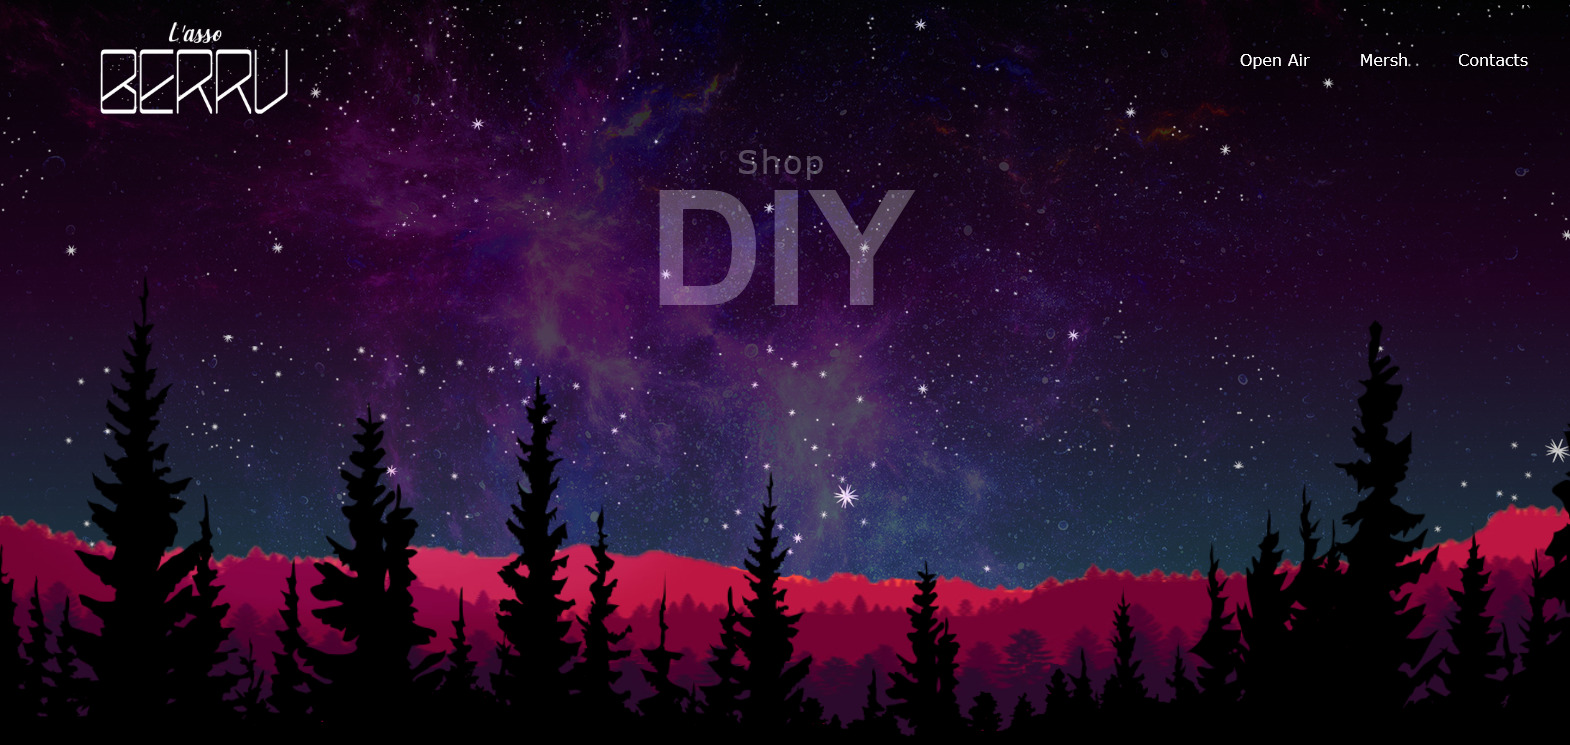
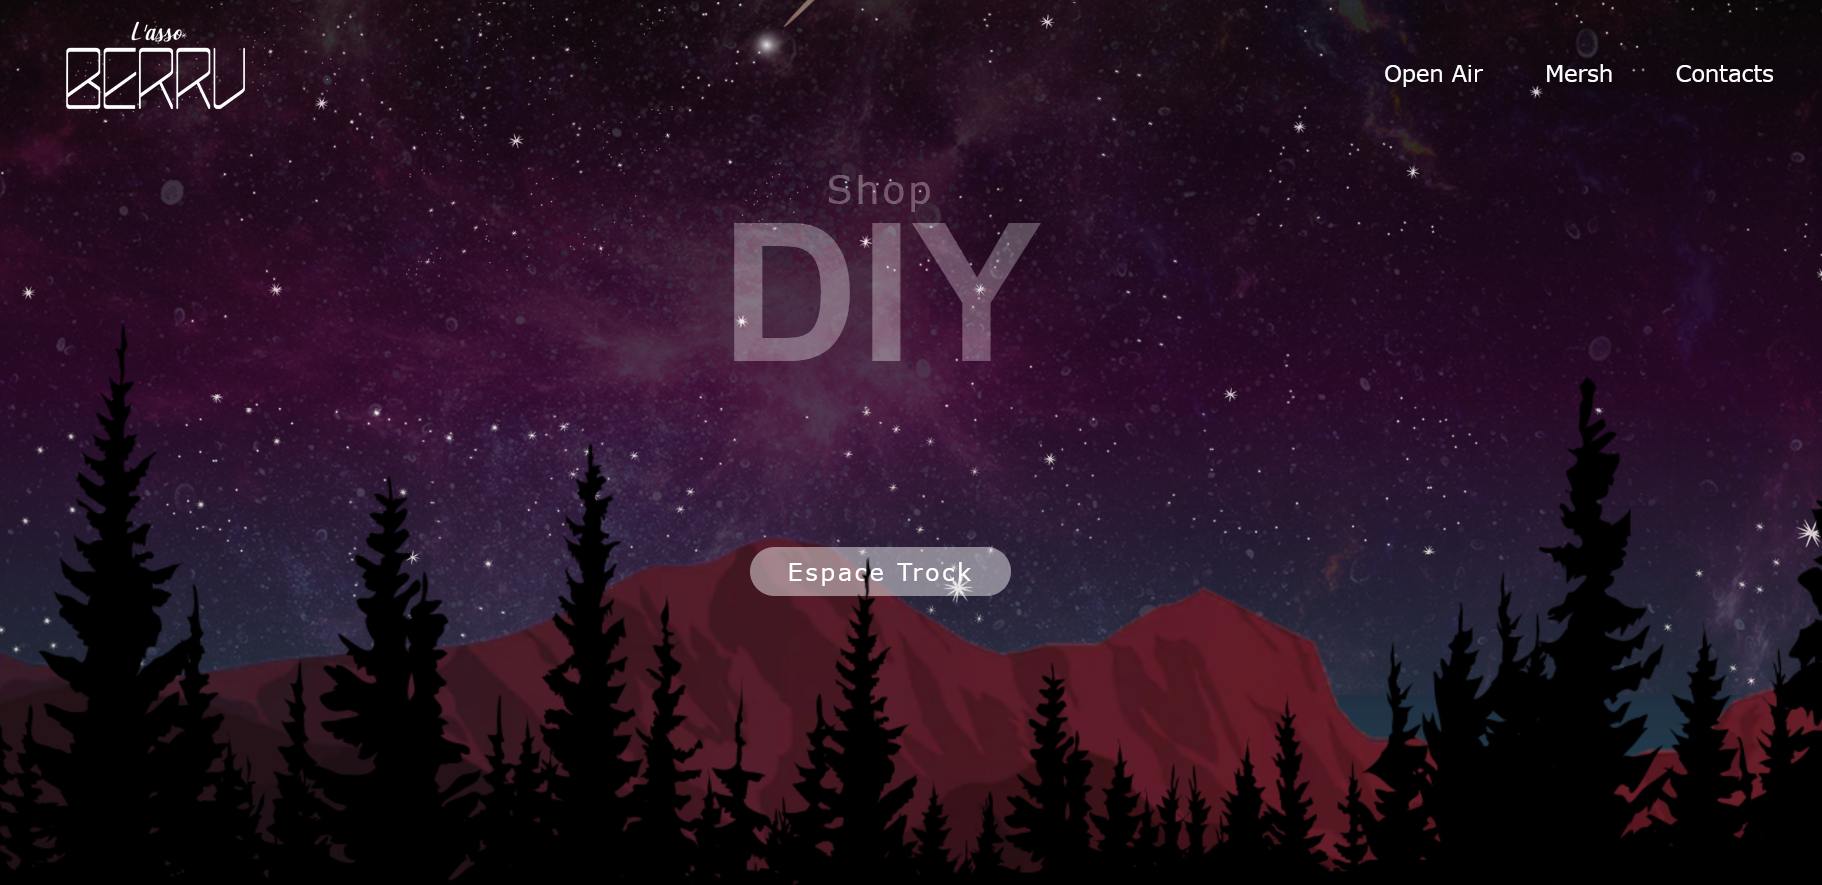
majV7

diff --git a/index-p.html b/index-p.html
@@ -12,12 +12,13 @@
         <nav class="dropdownmenu">
             <ul>
 
-                <li><a href="#">Contacts</a></li>
-                <ul id="submenu">
-                    <li><a href="#">Programmation</a></li>
-                    <li><a href="#">Info Admin</a></li>
-                    <li><a href="#">espace Partner</a></li>
-                </ul>
+                <li><a href="#">Contacts</a>
+                    <ul id="submenu">
+                        <li><a href="#">Prog</a></li>
+                        <li><a href="#">Admin</a></li>
+                        <li><a href="#">offre de stage</a></li>
+                    </ul>
+                </li>
                 <li><a href="#">Mersh</a>
                     <ul id="submenu">
                         <li><a href="#">Boissons</a></li>
@@ -161,7 +162,7 @@
         }
         
         #submenu a:hover {
-            background: var(--primary);
+            background-color: #ffffff96;
         }
         
         #submenu a {
@@ -171,7 +172,7 @@
         
         #btn {
             text-decoration: none;
-            display: inline-block;
+            display: inline;
             padding: 8px 30px;
             background: rgba(255, 255, 255, 0.46);
             color: var(--txt);
@@ -325,7 +326,7 @@
             position: relative;
             padding: 100px;
             background: var(--primary);
-            z-index: 6;
+            z-index: 15;
         }
         
         .sec h2 {
@@ -346,7 +347,7 @@
         }
         
         footer a {
-            text-decoration: none;
+            text-decoration: #f88989;
             color: #fff;
         }
         
@@ -358,7 +359,7 @@
         
         #stars {
             rotate: 55°;
-            opacity: 80%;
+            opacity: 100%;
         }
         
         #forest {
@@ -390,17 +391,32 @@
         
         h4 {
             color: var(--txt);
+            font-size: 18px;
+        }
+        
+        #scale,
+        a {
+            color: #f3a90a;
             text-decoration: none;
         }
         
-        #scale {
-            color: var(--txt);
-            text-decoration: none;
+        #secret {
+            background-color: transparent;
+            color: #000000;
+            font-size: 10px;
+            position: relative;
+            margin-right: 20px;
+            z-index: 100;
         }
         
-        #scale:hover {}
+        #secret:hover {
+            background-color: #ffffff96;
+            border-radius: 40px;
+        }
         
-        a:hover {}
+        a:hover {
+            opacity: 50%;
+        }
     </STYLE>
     </header>
 
@@ -415,12 +431,12 @@
     </div>-->
 
     <Section>
-        <h2 id="text"><span>Shop</span><br>DIY</h2>
+        <h2 id="text"><span></span><br></h2>
 
         <img src="src-img\Stars.png" id="sat">
-        <img src="src-img\Stars.png" id="stars">
+        <img src="src-img\LUNE.png" id="stars">
         <img src="src-img\cosmos.png" id="cosmos">
-        <a href="#" id="btn">Espace Trock</a>
+        <a href="#" id="btn" title="et offre de stage">Devenir Bénevole</a>
         <img src="src-img\mountain3.png" id="mont" position:absolute>
         <img src="src-img\foret.png" id="forest" position:absolute>
     </Section>
@@ -433,28 +449,35 @@
         <p>Ce site vous permet de rester informé des prochaines dates de DJ Set au Parc. Mais aussi de découvrir l'univers de l'asso.</p>
 
         <br><br>
-        <h4>DIY</h4>
+        <h4>DIY 🎮</h4>
         <p> Au dela d'organiser des concert, dj'set dans des Parcs nantais, on s'éclate à créer toute sorte de chose, comme du mapping vidéo ou "projection", on programme des petits instruments en C++ au protocole midi pour jouer sur Ableton, Arena ou Arturia.
-            <p>Nos instruments sont mis en vente ici, il s'agit de clavier maitre USB-Midi et boite à son électro 100% Analogique, ou suivant l'inspiration, un mélange des deux.
+            <p><a href="#">Nos instruments sont mis en vente ici</a> , il s'agit de clavier maitre USB-Midi et boite à son électro 100% Analogique, ou suivant l'inspiration, un mélange des deux.
 
                 <br><br>
-                <h4>Recyclage</h4>
+                <h4>Recyclage ♻</h4>
                 <p>Nous mettons également à disposition tout nos
-                    <strong>invendu</strong> de la saison, à savoir toute les boisson soft et cidre, qu'il nous reste de nos évenements. Nous les vendons à -20%, cela permet à l'asso d'éviter les pertes inutiles.
-                    <br>Dans ce même context, nous recyclons ...nanan si un meuble vous a plus lors d'un event, nous pouvons soit vous le donner si nous n'en n'avons plus l'utilité ou vous le prêter pour une occasion. "voir espace trock"
-                    <br><br>
-                    <h4>Moyen de paiment</h4>
+                    <strong>invendu</strong> de la saison, à savoir toute les boisson soft et cidre, qu'il nous reste de nos évenements. Nous les vendons à -33 % de leur prix coutant, cela évite les pertes et le gaspillage.
+                    <br>Dans ce même context, nous recyclons ...nanan si un meuble vous a plus lors d'un event, nous pouvons soit vous le donner si nous n'en n'avons plus l'utilité ou vous le prêter pour une occasion. <a href="" #>Dans espace trock.</a>                    <br><br>
+                    <h4>Moyen de paiment 🛒</h4>
                     <p>Nous acceptons la CB, Paypal et certaine crypto, dont Bitcoin, Ethereum, XRP, Tether USD et Unisap.
-                        <br><br> On vous propose donc 3 manières de soutenir l'asso, venir lors de nos évenements, acheter nos invendu, nos créations électronique et nous solliciter pour un projet. </p>
-                    <p> <br><br>L'équipe vous remercie de vous êtres interressé à nous.</p>
-                    <br>
-                    <p>On se retrouve le samedi 18 septembre au Parc de la Gaudinière pour une édition spécial DUB avec RDH sound system et Miniman </p>
+                        <p> <br><br>L'équipe vous remercie de vous êtres interressé à notre univers.</p>
+                        <br>
+                        <div id="scale">
+                            <p>Pour plus d'info génerale, veuillez vous réferer à notre <a href="#">FAQ</a></p>
+                        </div>
 
     </div>
     <footer>
-        <div>
-            <p>Site develloppé par l'asso. Nos autres projets<a href="http://www.github.com/berru-g" class="scale"> Github ici. </p>
+        <div class="scale">
+            <p>Site develloppé par l'asso. Nos autres projets<a href="http://www.github.com/berru-g"> Github ici. </a></p>
+            <a href="#" id="secret" title="">hello you, want to play?</a>
+
         </div>
+        <p id="hour" style='color:var(--text-color); '>Nous sommes </p>
+
+        <p id="jour" style='color:var(--text-color); '></p>
+        <p id="nom" style='color:var(--text-color); '></p>
+
     </footer>
 
     <script>
@@ -473,13 +496,41 @@
 
             text.style.top = 15 + value * +.2 + '%';
             stars.style.top = value * -1.5 + 'px';
-            stars.style.left = value * 2 + 'px';
-            sat.style.top = value * -1.5 + 'px';
-            sat.style.left = value * -5 + 'px';
-            btn.style.marginTop = value * 1.5 + 'px'; 
+            stars.style.left = value * 5 + 'px';
+            sat.style.top = value * -1 + 'px';
+            sat.style.left = value * -1 + 'px';
+            btn.style.marginTop = value * 1.5 + 'px';
             mont.style.top = value * +.34 + 'px';
             cosmos.style.top = value * .25 + 'px';
             header.style.top = value * .5 + 'px';
         })
+    </script>
+
+    <!--HOUR------vieux script teste de readaptation de cote --------------------------------------------------------------->
+    <script>
+        //			function open()     //pk cette algo ne supporte que 3 var ?
+        function myFunction() {
+            var Bienvenue;
+            var time = new Date().getHours();
+            if (time < 11) {
+                Bienvenue = "c'est encore une belle journée qui commence !";
+            } else if (time < 20) { //SINON -hours inferieur 20H
+                Bienvenue = "cette journée est plutôt cool !";
+                //					document.open.boutton;//putain ça marche mais ça annule myFunction?!!!
+
+            } else {
+                Bienvenue = "la soirée s'annonce douce !"; //AUTREMENT write=""
+
+            }
+
+            document.getElementById("hour").innerHTML = Bienvenue; //Appel de mon id=""
+        }
+    </script>
+    <!--JOUR------------------------------------------------------------------------------------------->
+    <script>
+        var d = new Date();
+        var days = ["dimanche, les autres on l'heure, toi tu as le temps!", "lundi, tendons vers nos objectifs!", "mardi c'est le jour de l'amitié !", "mercredi tous peut arriver !", "jeudi, le week-end s'approche !", "vendredi et demain matin tu est en week-end !", "samedi, on fait quoi aujourd'hui ?"];
+
+        document.getElementById("jour").innerHTML = days[d.getDay()];
     </script>
 </body>
